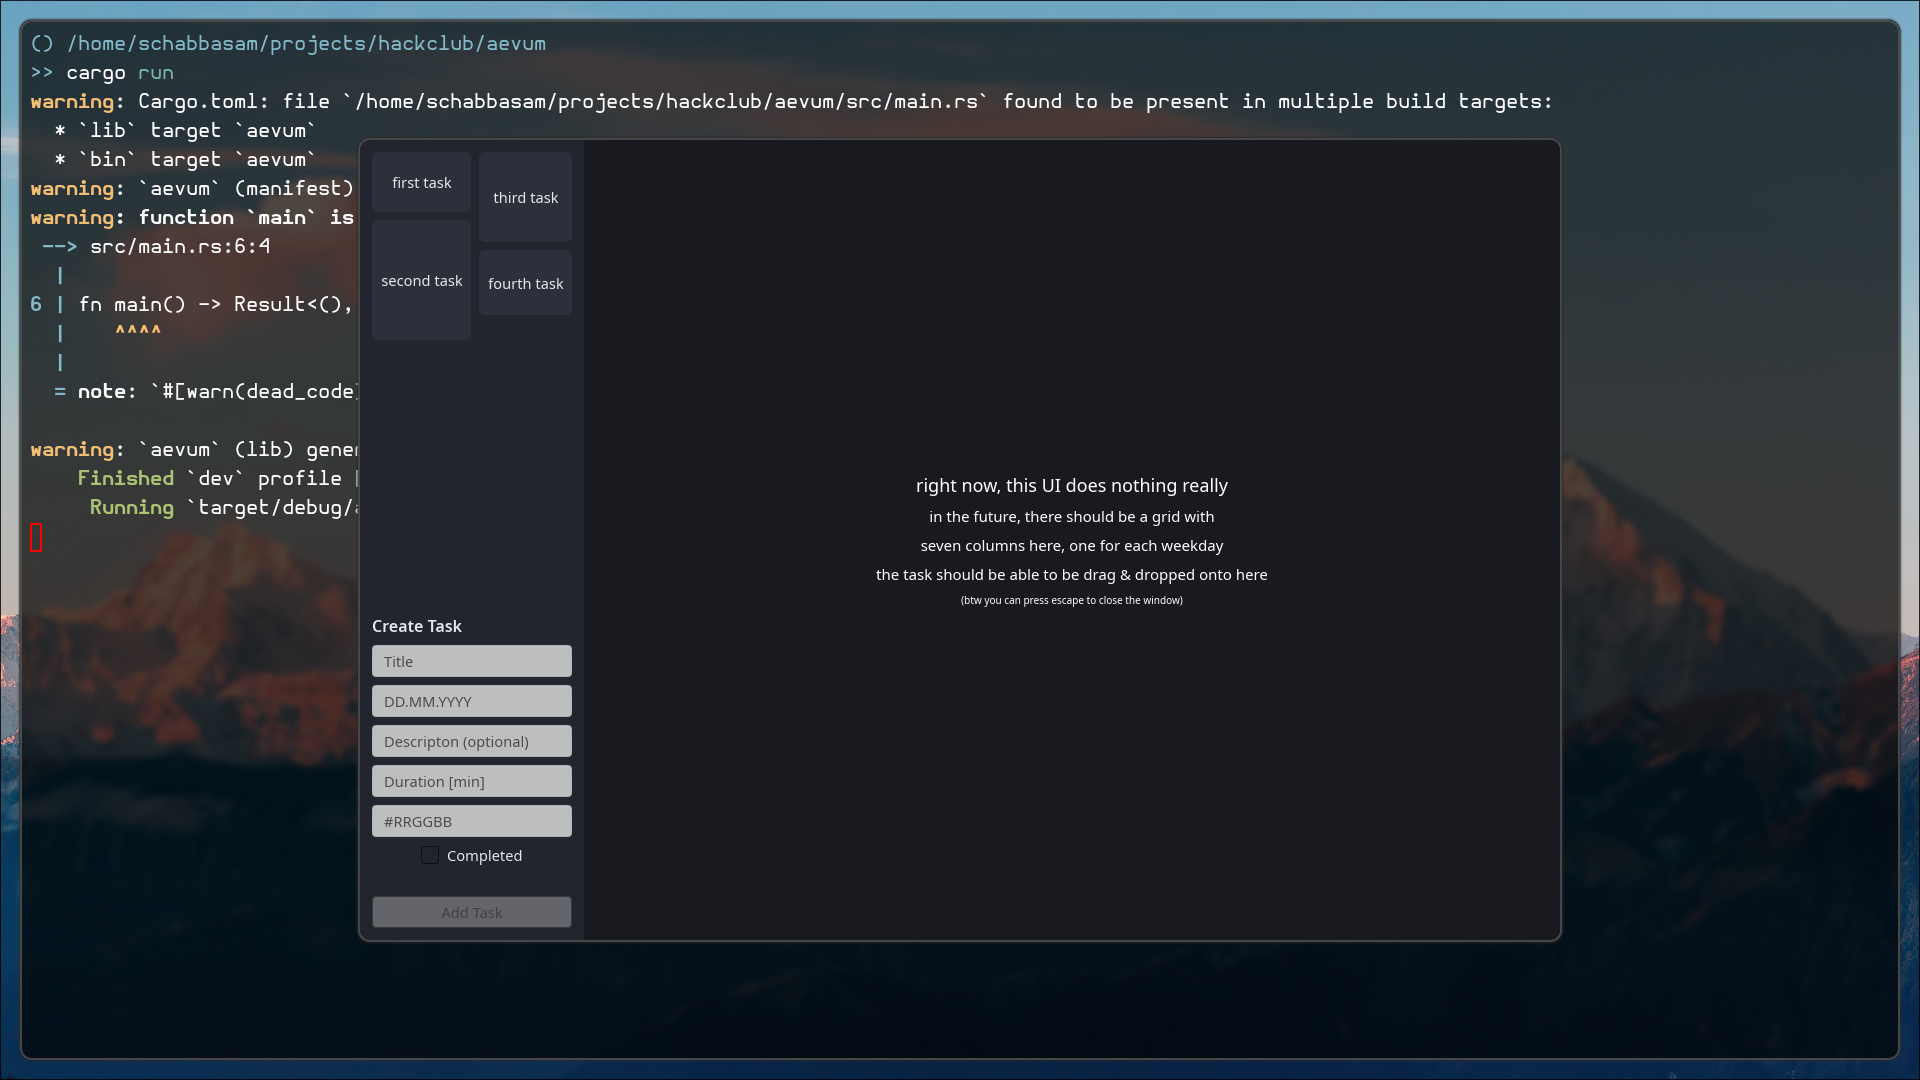
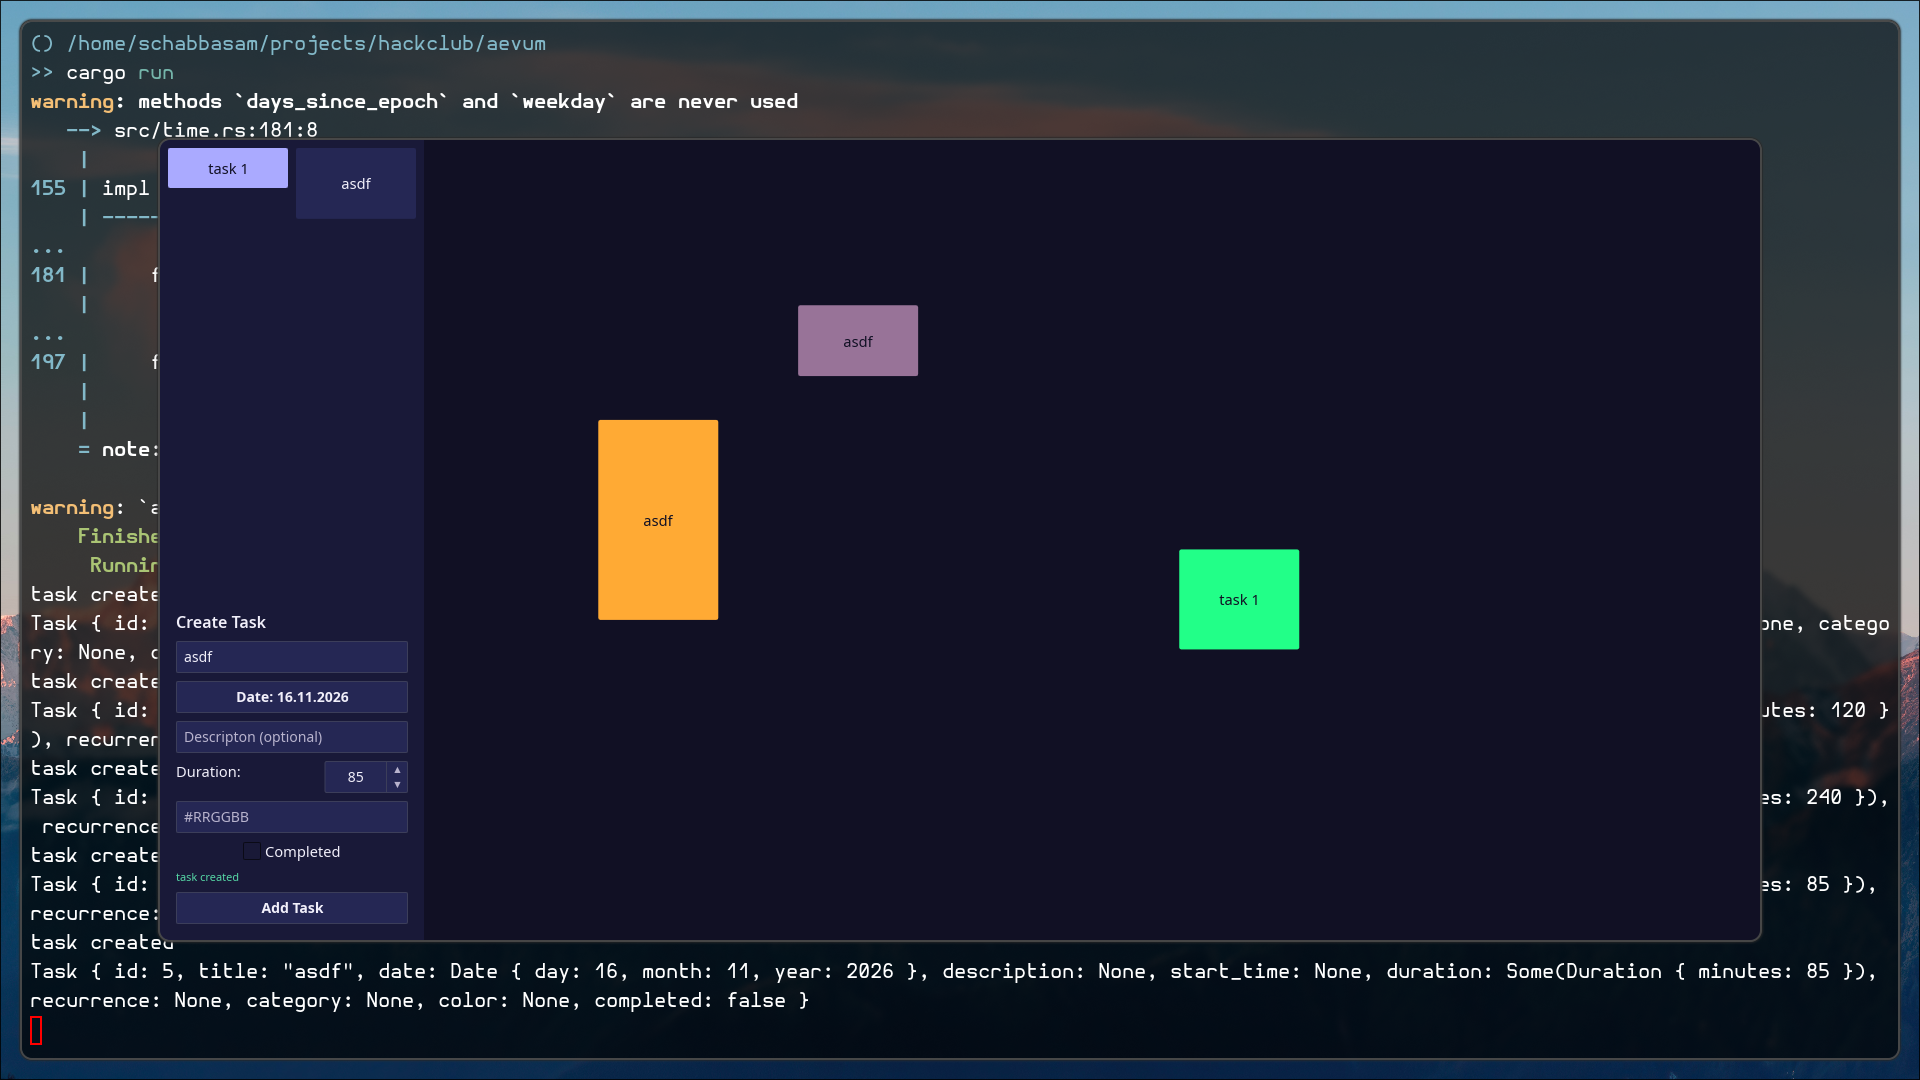
updated readme and screenshot

diff --git a/README.md b/README.md
@@ -28,7 +28,7 @@ cargo test
 
 I chose Slint because I wanted a lightweight, cross-platform framework that allows the application to run on desktop systems and Android devices.
 
-The user interface is still under development.
+Although I have done a lot, appearance wise it still looks almost the same, but a lot happened on the inside. It is still far from finished.
 
 ## Planned features
 
@@ -70,6 +70,11 @@ cargo run --release
 ## Web preview
 
 A web preview is also available: https://schabbasam.github.io/aevum/
+Note: I disabled the website temporarily because I kept pushing commits for everything and the poor github workflow ran every time. But it should be up and running now.
+
+## Other stuff
+
+The official [Slint docs](https://docs.slint.dev/latest/docs/slint/) helped a lot! Almost everything is explained here, and the things that aren't can be looked up in the compiler's source code on github.
 
 ## License
 
